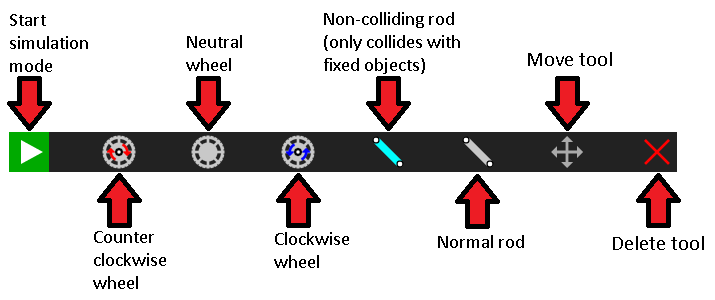
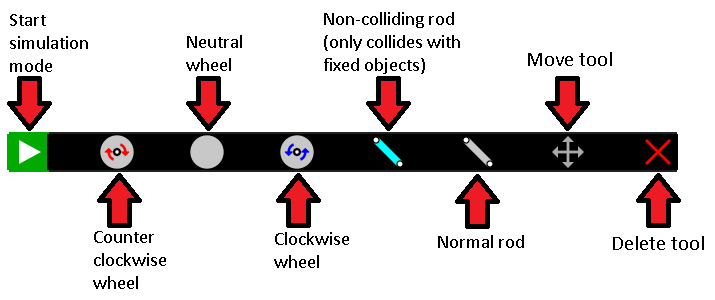
simpler wheel appearance + tutorial showImg on new step

Changed region(s): [[0.0, 0.42, 0.9538, 0.57]]

diff --git a/docs/texture-creator.html b/docs/texture-creator.html
@@ -3,21 +3,19 @@
 		<head>
 			<title>Texture Creator</title>
 		</head>
-		<body style="background-color: rgb(0, 0, 0);">
+		<body>
 		<canvas id="c" style="border: solid 4px red;"></canvas>
 		<!--<a id="a" download>Download</a>-->
 		<script>
 			"use strict";
-			/*
 			const DBL_PI = Math.PI * 2;
 			var canvas = document.getElementById("c");
 
-			let c = 512;
-			//let c = 80;
+			let c = 40 / 1.2;
 
 			let l = c * 2;
-			canvas.width = l * 4;
-			canvas.height = l * 4;
+			canvas.width = l * 1.2;
+			canvas.height = l * 1.2;
 			//canvas.width = l;
 			//canvas.height = l;
 			let ctx = canvas.getContext("2d");
@@ -28,11 +26,30 @@
 			const orange = "rgb(255, 128, 0)";
 			const green = "rgb(0, 255, 0)";
 
+			drawWheel(c + c * 0.2, c + c * 0.2, c, 0, gray);
+
+			/*
+			let c = 512;
+
+			let l = c * 2;
+			canvas.width = l * 4;
+			canvas.height = l * 4;
+			let ctx = canvas.getContext("2d");
+			ctx.imageSmoothingEnabled = false;
+			const lw = c * 0.16;
+			const gray = "rgb(200, 200, 200)";
+			const aqua = "rgb(0, 255, 255)";
+			const orange = "rgb(255, 128, 0)";
+			const green = "rgb(0, 255, 0)";
+			*/
 
 
 
-			drawWheel(c, c, c, -1, gray);
+
 			
+			/*
+			drawWheel(c, c, c, -1, gray);
+
 			let y = c + l;
 			drawWheel(c, y, c, 1, gray);
 			
@@ -55,6 +72,7 @@
 
 			y += l;
 			drawWheel(x, y, c, 0, aqua);
+			*/
 
 			// pin
 			y += l;
@@ -93,7 +111,7 @@
 			ctx.fillStyle = green;
 			ctx.fill();
 			*/
-			/*
+			
 			y += l;
 			ctx.beginPath();
 			ctx.arc(x + c, y + c, l, 0, DBL_PI);
@@ -130,8 +148,8 @@
 			y += l / 7;
 			ctx.fillStyle = "rgb(0, 128, 255)";
 			ctx.fillRect(x, y, l, l / 7);
-			*/
-
+			
+			/*
 			let canvas = document.getElementById("c");
 			let w = 400;
 			canvas.width = w;
@@ -140,11 +158,12 @@
 			ctx.imageSmoothingEnabled = false;
 			const DBL_PI = Math.PI * 2;
 			ctx.strokeStyle = "rgb(0, 0, 0)";
+			*/
 			
 
 
-			drawGear(260, 140, 100);
-			drawGear(110, 290, 75);
+			//drawGear(260, 140, 100);
+			//drawGear(110, 290, 75);
 			function drawGear(x, y, r){
 				ctx.beginPath();
 				let pr = r / 4;
@@ -163,6 +182,12 @@
 
 
 			function drawWheel(x, y, r, d, color){
+				ctx.beginPath();
+				ctx.arc(x, y, r, 0, DBL_PI);
+				ctx.fillStyle = color;
+				ctx.fill();
+				
+				/*
 				ctx.beginPath();
 				//ctx.arc(x, y, r - lw / 2, 0, DBL_PI);
 				ctx.arc(x, y, r - lw / 2 - r * 0.05, 0, DBL_PI);
@@ -183,24 +208,14 @@
 				drawSpoke(x, y, 0, r - lw, 8);
 				ctx.lineWidth = lw;
 				ctx.stroke();
+				*/
 
 				if(!d) return;
 				ctx.beginPath();
 				drawRegularPolygon(x, y, r * 0.256, 8);
 				ctx.fillStyle = "rgb(0, 0, 0)";
 				ctx.fill();
-				/*
-				ctx.beginPath();
-				drawSpoke(x, y, 0, r * 0.128, 4);
-				ctx.lineWidth = c * 0.128;
-				ctx.strokeStyle = "rgb(200, 200, 200)";
-				ctx.stroke();
-			
-				ctx.beginPath();
-				drawRegularPolygon(x, y, r * 0.128, 8);
-				ctx.fillStyle = "rgb(200, 200, 200)";
-				ctx.fill();
-				*/
+				
 				ctx.beginPath();
 				ctx.arc(x, y, r * 0.1, 0, DBL_PI);
 				ctx.fillStyle = "rgb(255, 255, 255)";

diff --git a/docs/scripts/modals.js b/docs/scripts/modals.js
@@ -515,6 +515,7 @@ const tutorialScene = {
 		this.container.appendChild(this.currentTutorial);
 
 
+		this.showImg();
 		this.ui.style.display = "block";
 	},
 	suspend(){
